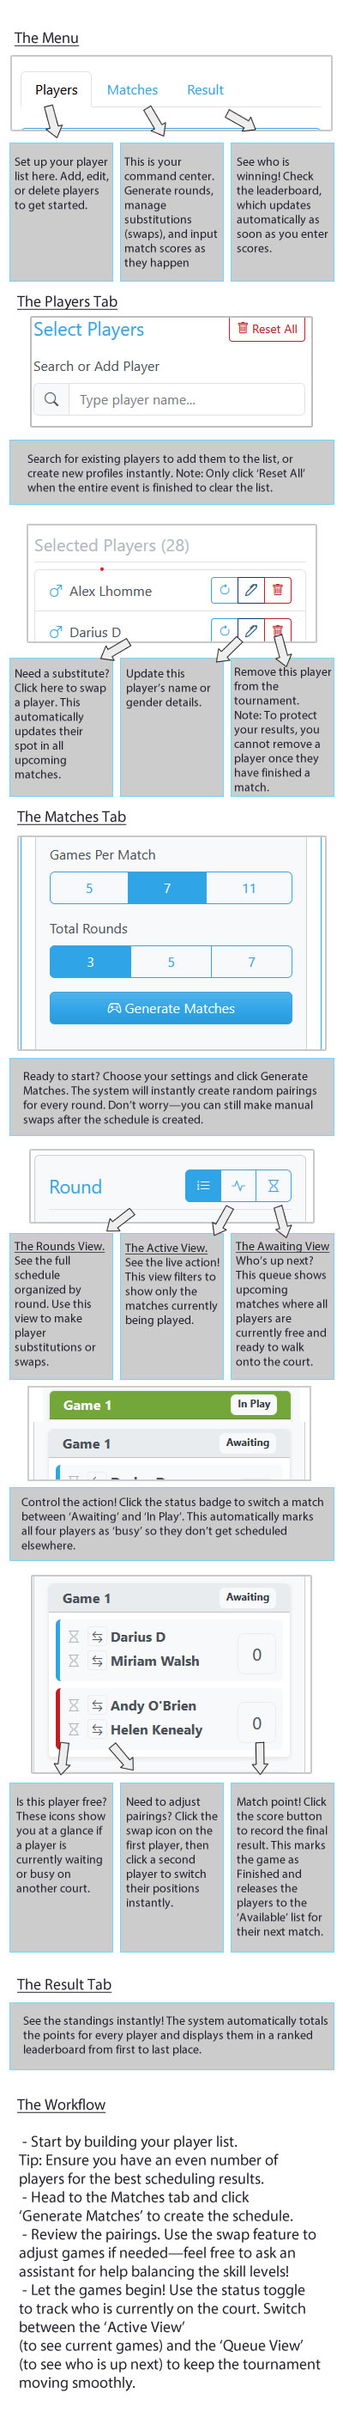
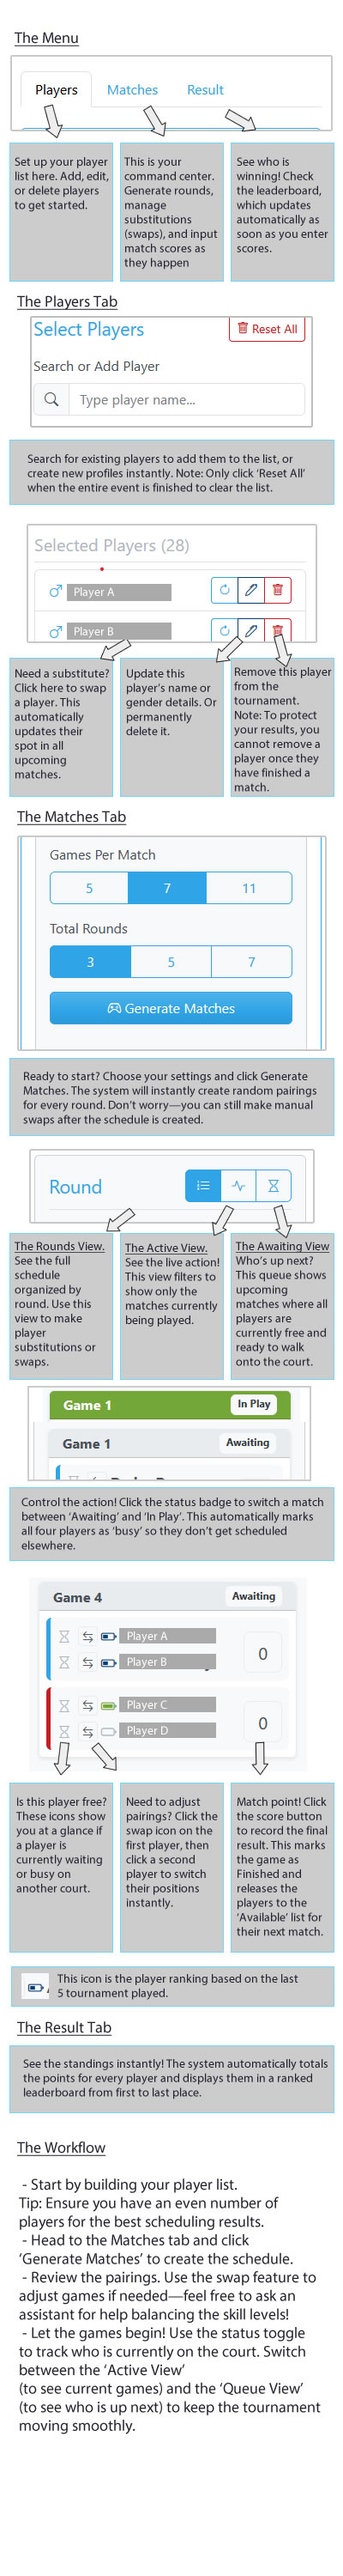
new delete option

diff --git a/components/TabSelection.js b/components/TabSelection.js
@@ -1,6 +1,6 @@
 const TabSelection = {
     props: ['data', 'selected', 'dialog'],
-    emits: ['update-selected', 'save-new-player', 'edit-player', 'substitute-player', 'finalize-session'],
+	emits: ['update-selected', 'save-new-player', 'edit-player', 'substitute-player', 'finalize-session', 'delete-player'],
     setup(props, { emit }) {
         const { ref, computed } = Vue; 
         
@@ -135,6 +135,18 @@ const TabSelection = {
                 gender: editGender.value
             });
             cancelEdit();
+        };
+		
+		const deletePlayer = async (id) => {
+            const confirmed = await props.dialog.confirm(
+                'Permanently Delete Player',
+                'Are you sure you want to permanently delete this player from the database? This cannot be undone.'
+            );
+            
+            if (confirmed) {
+                emit('delete-player', id);
+                cancelEdit();
+            }
         };
 
         // --- Switch Initiator ---
@@ -281,7 +293,8 @@ const TabSelection = {
             saveEdit,
             switchingPlayer,
             cancelSwitch,
-			lastAddedId
+			lastAddedId,
+			deletePlayer
         };
     },
     template: `
@@ -408,9 +421,12 @@ const TabSelection = {
                                 </div>
                                 <div class="col-4 text-end">
                                     <div class="btn-group">
-                                        <button class="btn btn-sm btn-success me-1" @click="saveEdit"><i class="bi bi-check"></i></button>
-                                        <button class="btn btn-sm btn-secondary" @click="cancelEdit"><i class="bi bi-x"></i></button>
+                                        <button class="btn btn-sm btn-success" title="Save" @click="saveEdit"><i class="bi bi-check"></i></button>
+                                        <button class="btn btn-sm btn-secondary" title="Cancel" @click="cancelEdit"><i class="bi bi-x"></i></button>
                                     </div>
+                                    <button class="btn btn-sm btn-danger ms-1" title="Permanently Delete" @click="deletePlayer(editingId)">
+                                        <i class="bi bi-trash-fill"></i>
+                                    </button>
                                 </div>
                             </div>
                     </li>

diff --git a/index.html b/index.html
@@ -103,6 +103,7 @@
 						@update-games="saveGames"
 						@substitute-player="handleSubstitutePlayer"
 						@finalize-session="handleFinalizeSession"
+						@delete-player="handleDeletePlayer"
                     ></component>
                 </transition>
             </div>
@@ -310,6 +311,23 @@
                 jsonData.value.last_update = new Date().toISOString().split('T')[0];
                 await syncToCloud();
             };
+			
+			const handleDeletePlayer = async (playerId) => {
+                // 1. Remove from Master Database
+                jsonData.value.players = jsonData.value.players.filter(p => p.id !== playerId);
+                
+                // 2. Remove from Active Selection (if they were selected)
+                selectedPlayers.value = selectedPlayers.value.filter(p => p.id !== playerId);
+                
+                // 3. Remove from Current List IDs
+                if (jsonData.value.current && jsonData.value.current.list) {
+                    jsonData.value.current.list = jsonData.value.current.list.filter(id => id !== playerId);
+                }
+
+                // 4. Save to Cloud
+                jsonData.value.last_update = new Date().toISOString().split('T')[0];
+                await syncToCloud();
+            };
 
 			const handleSubstitutePlayer = async ({ oldId, newPlayer }) => {
 				// 1. Update Selected List
@@ -420,6 +438,7 @@
                 fetchData,
 				handleSubstitutePlayer,
 				handleFinalizeSession,
+				handleDeletePlayer,
                 isLoading,
 				saveGames,
 				modalState,

diff --git a/assets/css/mystyle.css b/assets/css/mystyle.css
@@ -3,7 +3,7 @@
 	position: absolute;
 	z-index: 1000;
 	width: 100%;
-	max-height: 200px;
+	max-height: 60vh;
 	overflow-y: auto;
 	border: 1px solid #ced4da;
 	border-top: none;
